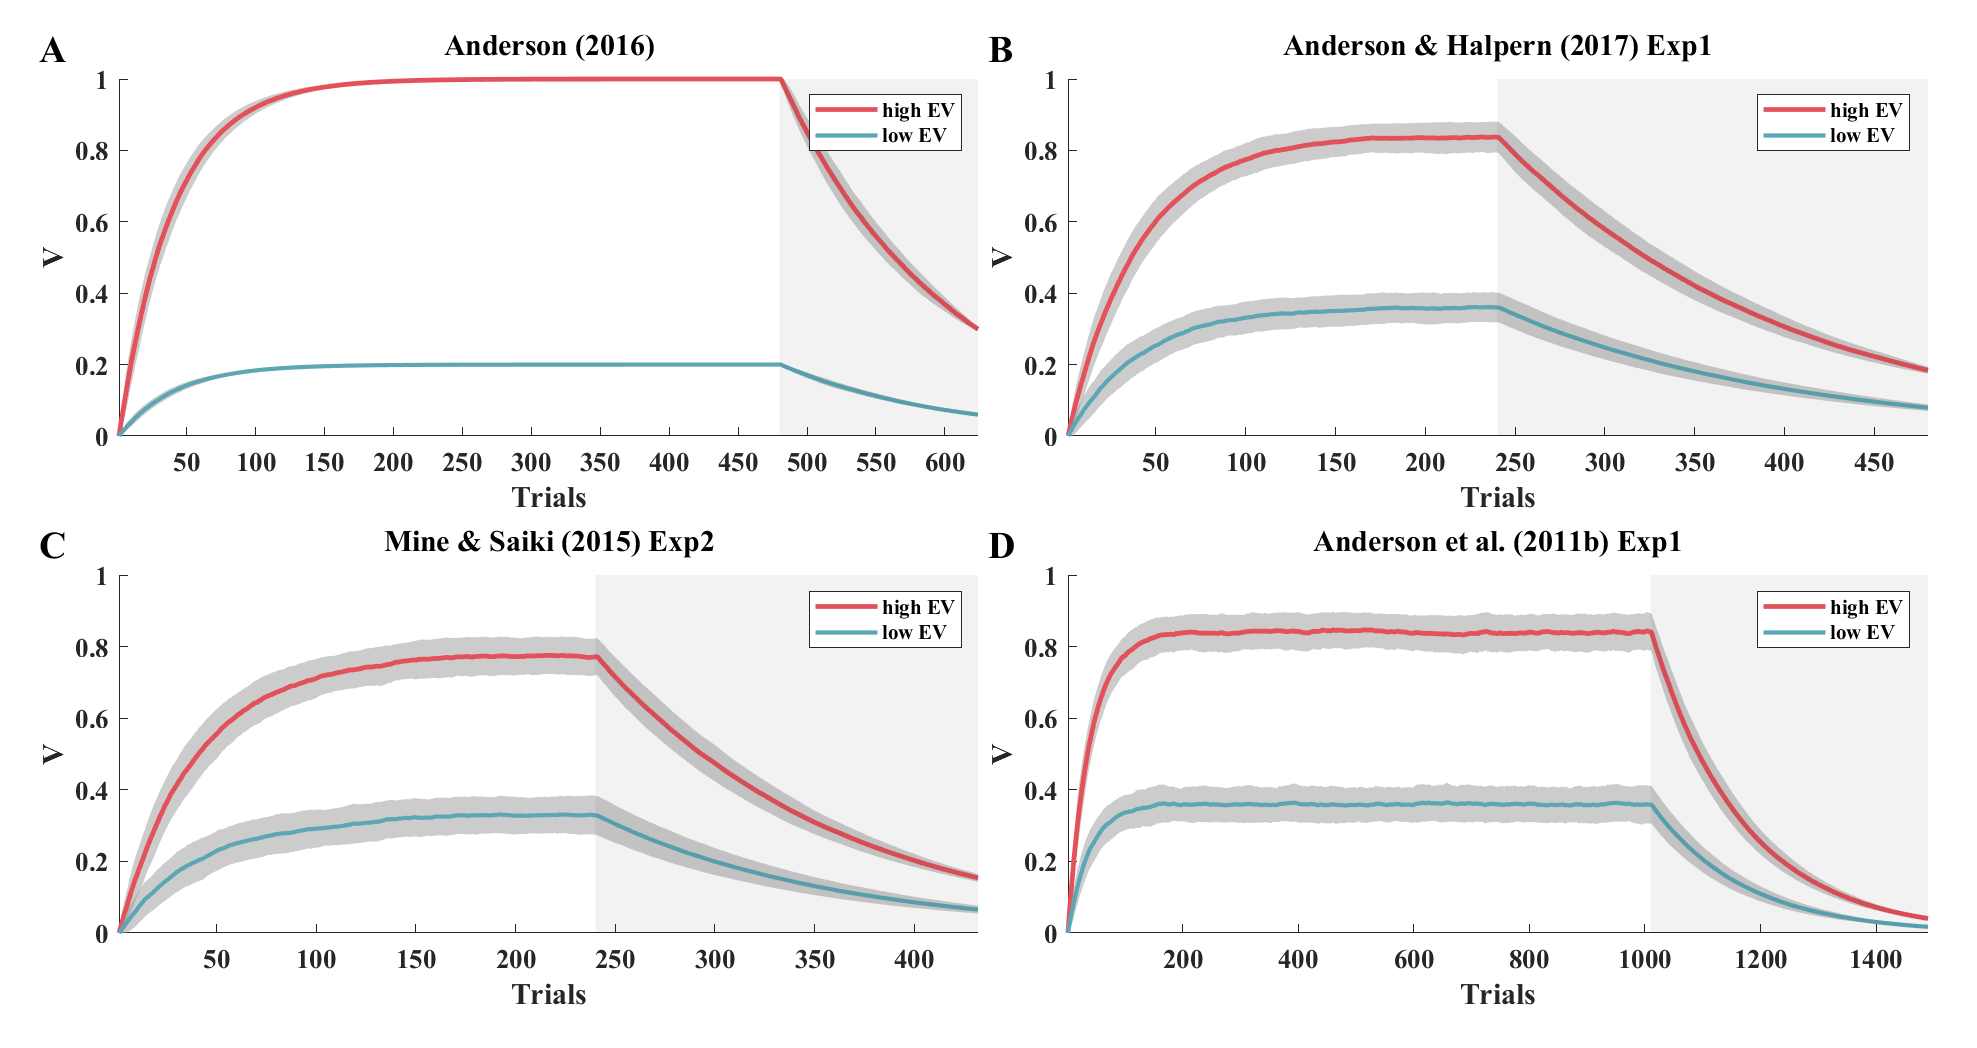
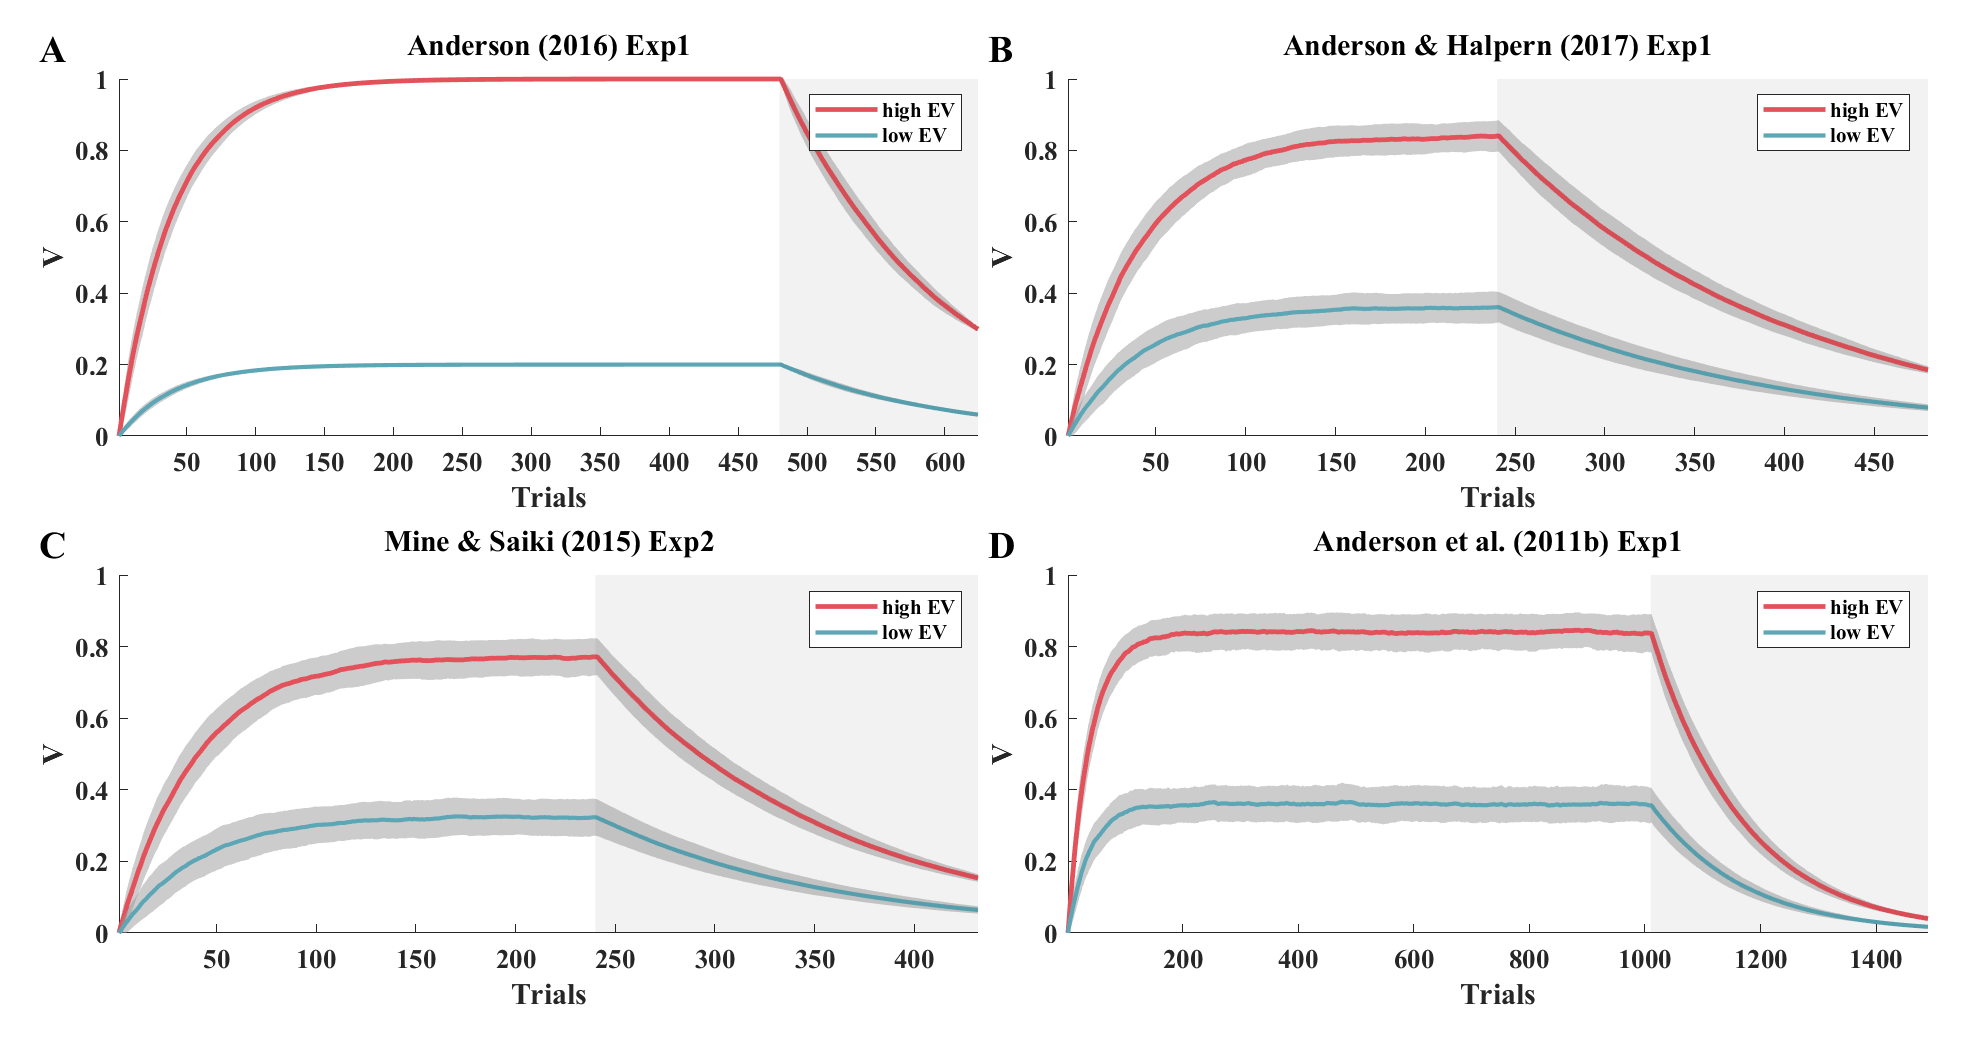
Anderson 2016 added experiment number

diff --git a/VDAC/Figures/Fig1.m b/VDAC/Figures/Fig1.m
@@ -42,7 +42,7 @@ xlabel('Trials');
 ylabel('V'); 
 
 % Texts
-t = title('Anderson (2016)');
+t = title('Anderson (2016) Exp1');
 t.Position(2) = 1.05; % slightly move up
 t.FontSize = 13;
 set(ax1, 'FontName', 'Times New Roman Bold');

diff --git a/VDAC/experiments/Anderson_2016.m b/VDAC/experiments/Anderson_2016.m
@@ -1,5 +1,5 @@
 %% Anderson 2016
-% Anderson 2016 simulation
+% Anderson 2016 simulation Exp1
 % Auditory
 
 %% Experiment Data
